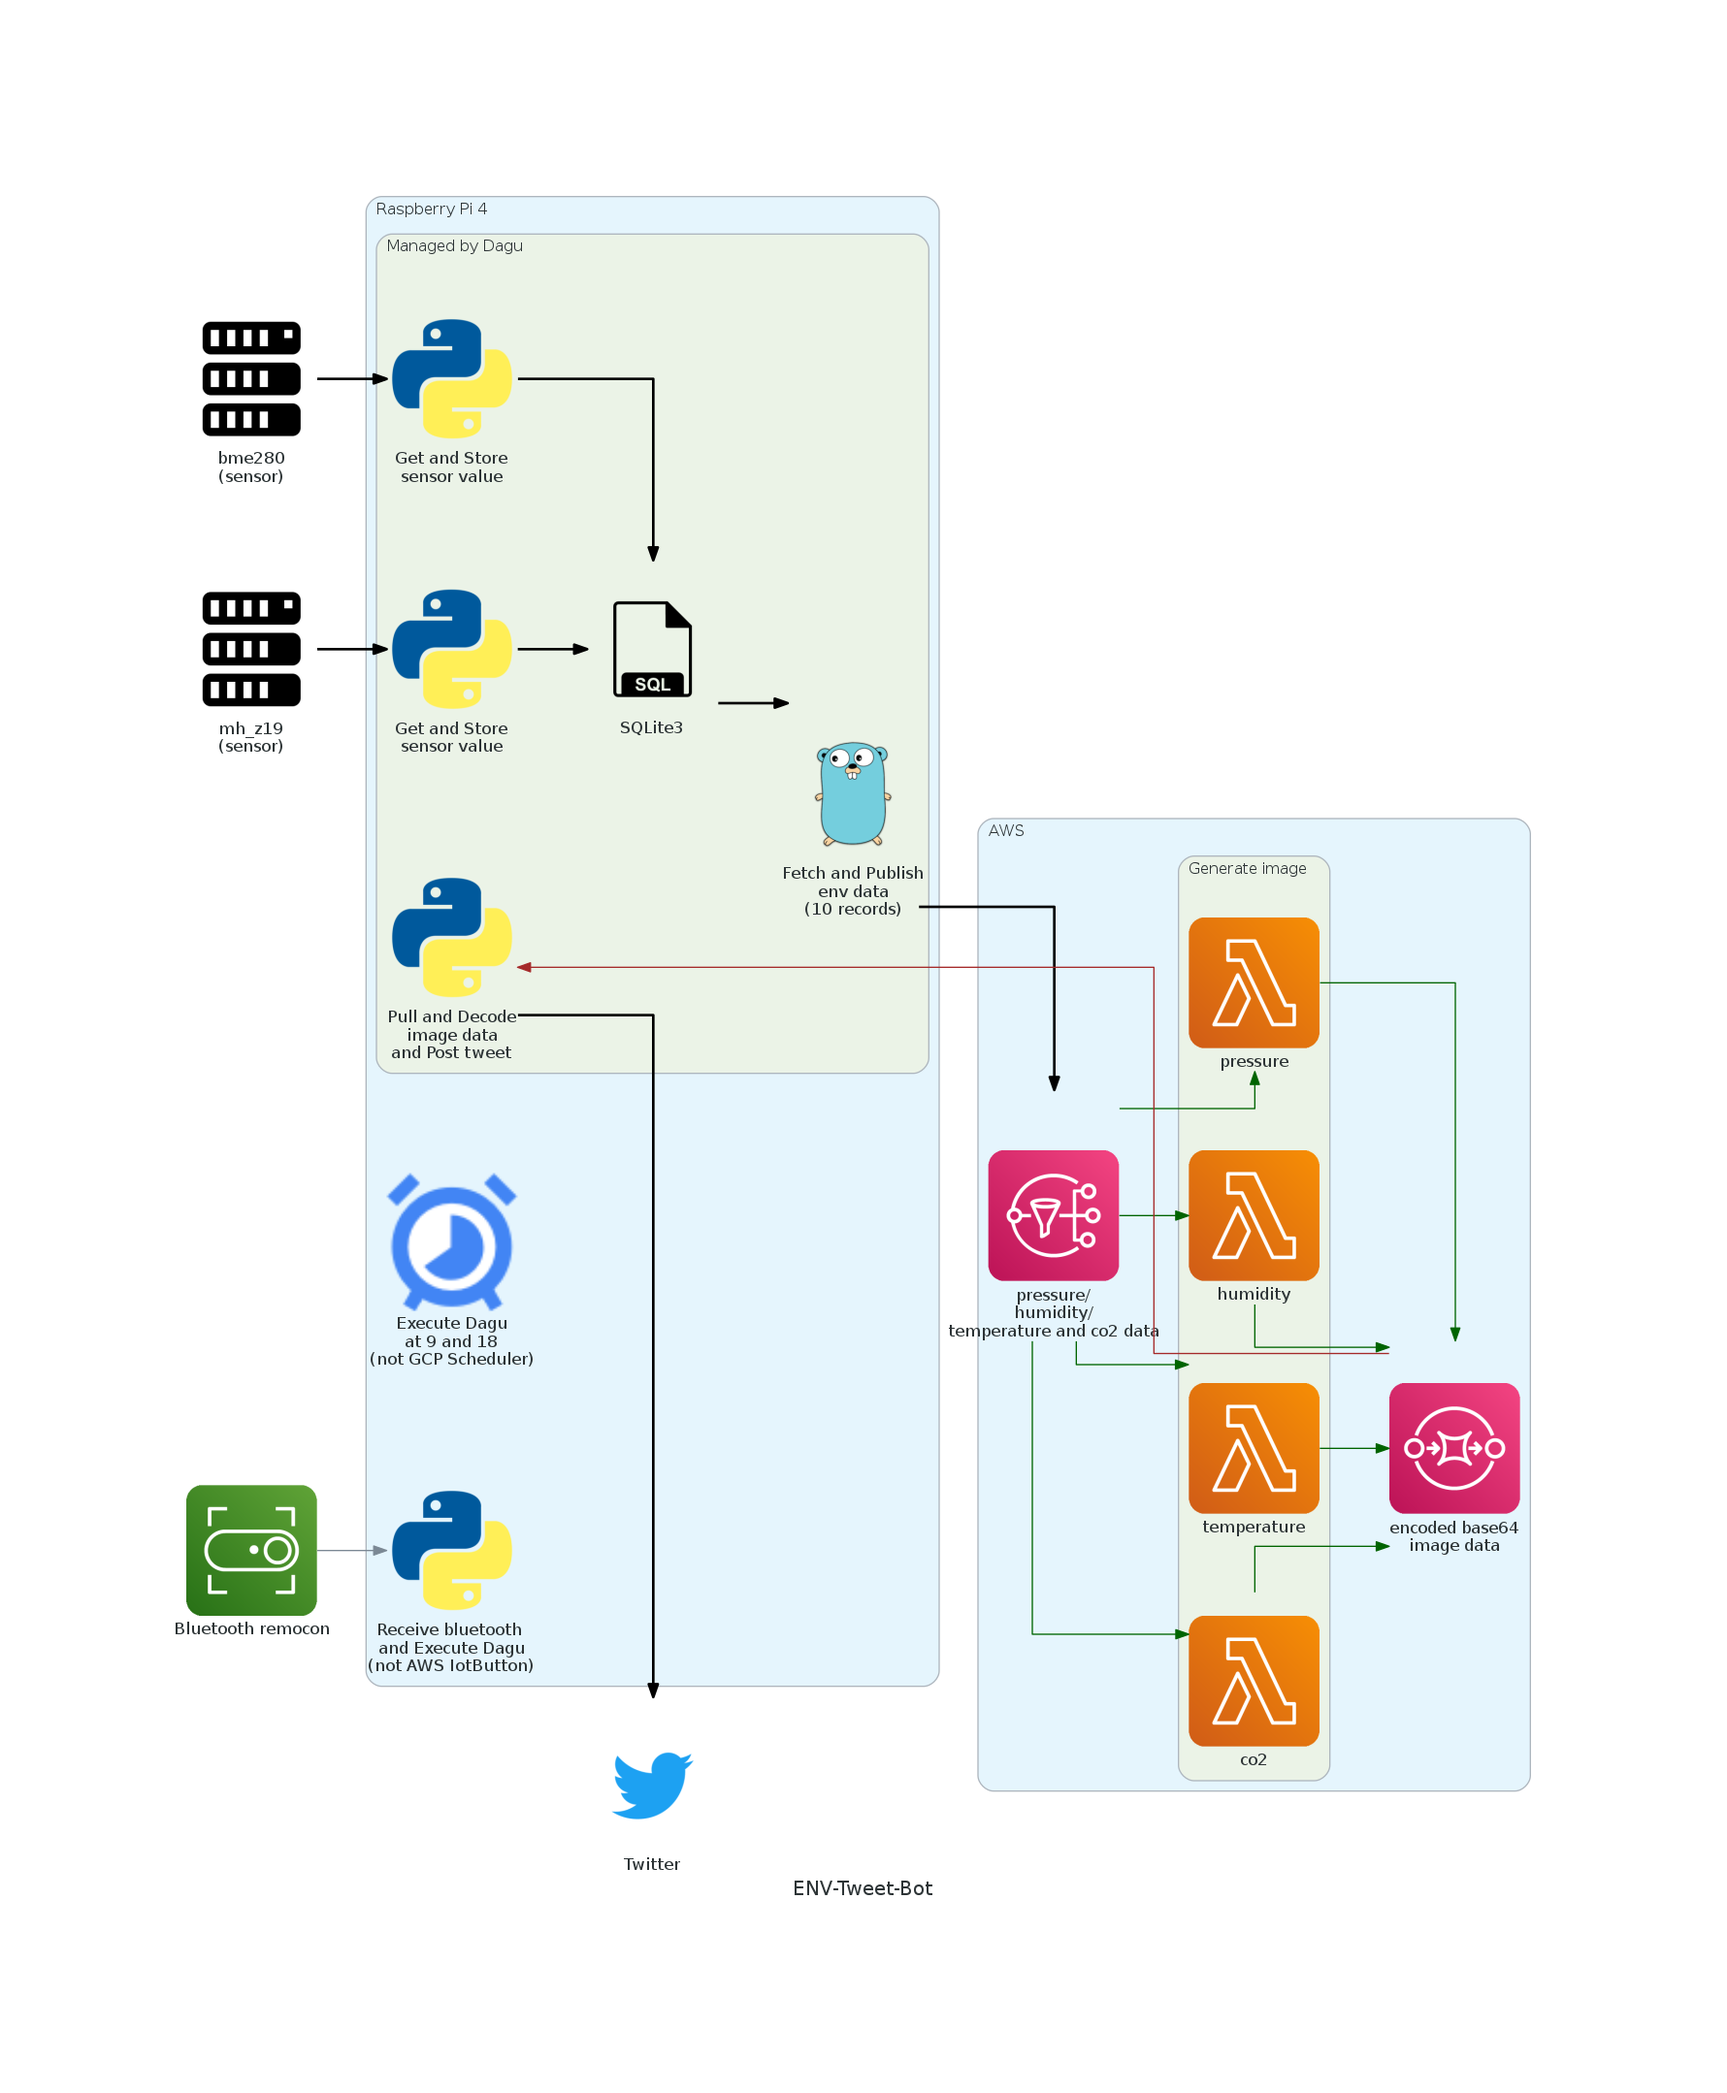
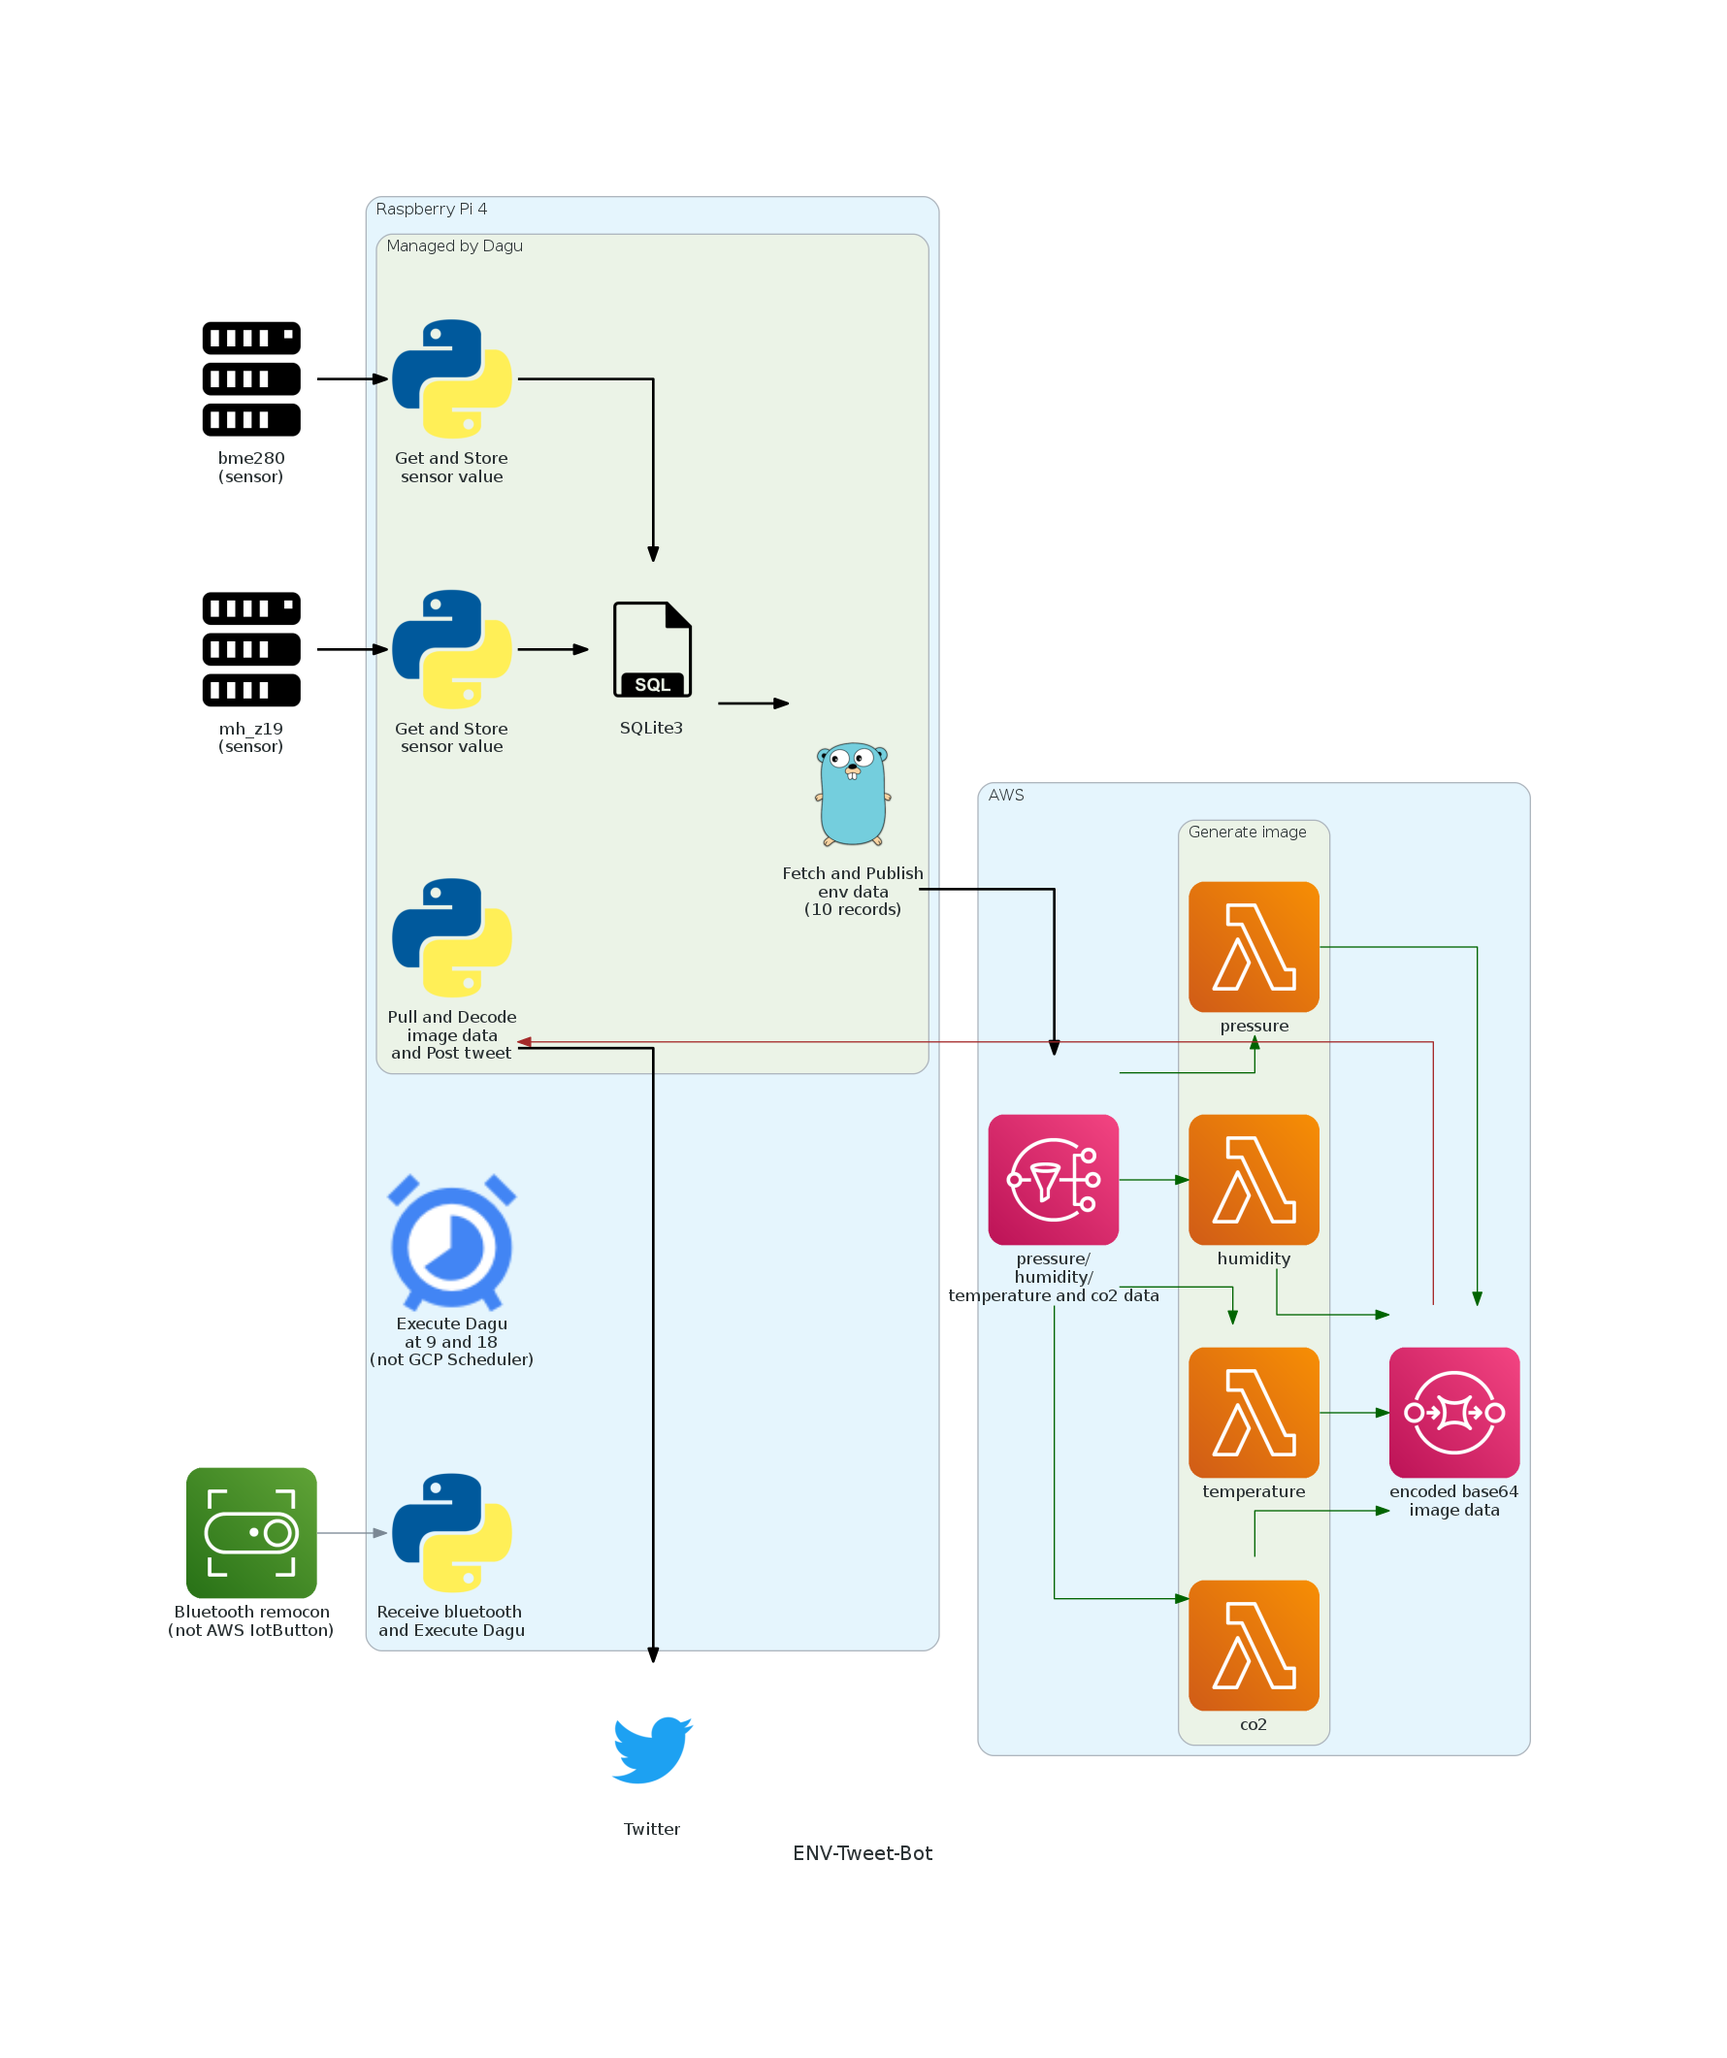
fix

diff --git a/env-bot/doc/diagram.py b/env-bot/doc/diagram.py
@@ -12,7 +12,7 @@ from diagrams.gcp.devtools import Scheduler
 with Diagram("ENV-Tweet-Bot", show=False, outformat="png"):
   bme280 = Server("bme280\n(sensor)")
   mh_z19 = Server("mh_z19\n(sensor)")
-  bt_remote_controller = IotButton("Bluetooth remocon")
+  bt_remote_controller = IotButton("Bluetooth remocon\n(not AWS IotButton)")
 
   green_edge = Edge(color="darkgreen")
   brown_edge = Edge(color="brown")
@@ -20,7 +20,7 @@ with Diagram("ENV-Tweet-Bot", show=False, outformat="png"):
 
   with Cluster("Raspberry Pi 4"):
     cron = Scheduler("Execute Dagu\nat 9 and 18\n(not GCP Scheduler)")
-    bt_receiver = Python("Receive bluetooth \nand Execute Dagu\n(not AWS IotButton)")
+    bt_receiver = Python("Receive bluetooth \nand Execute Dagu")
 
     with Cluster("Managed by Dagu"):
       prog1 = Python("Get and Store\nsensor value")
